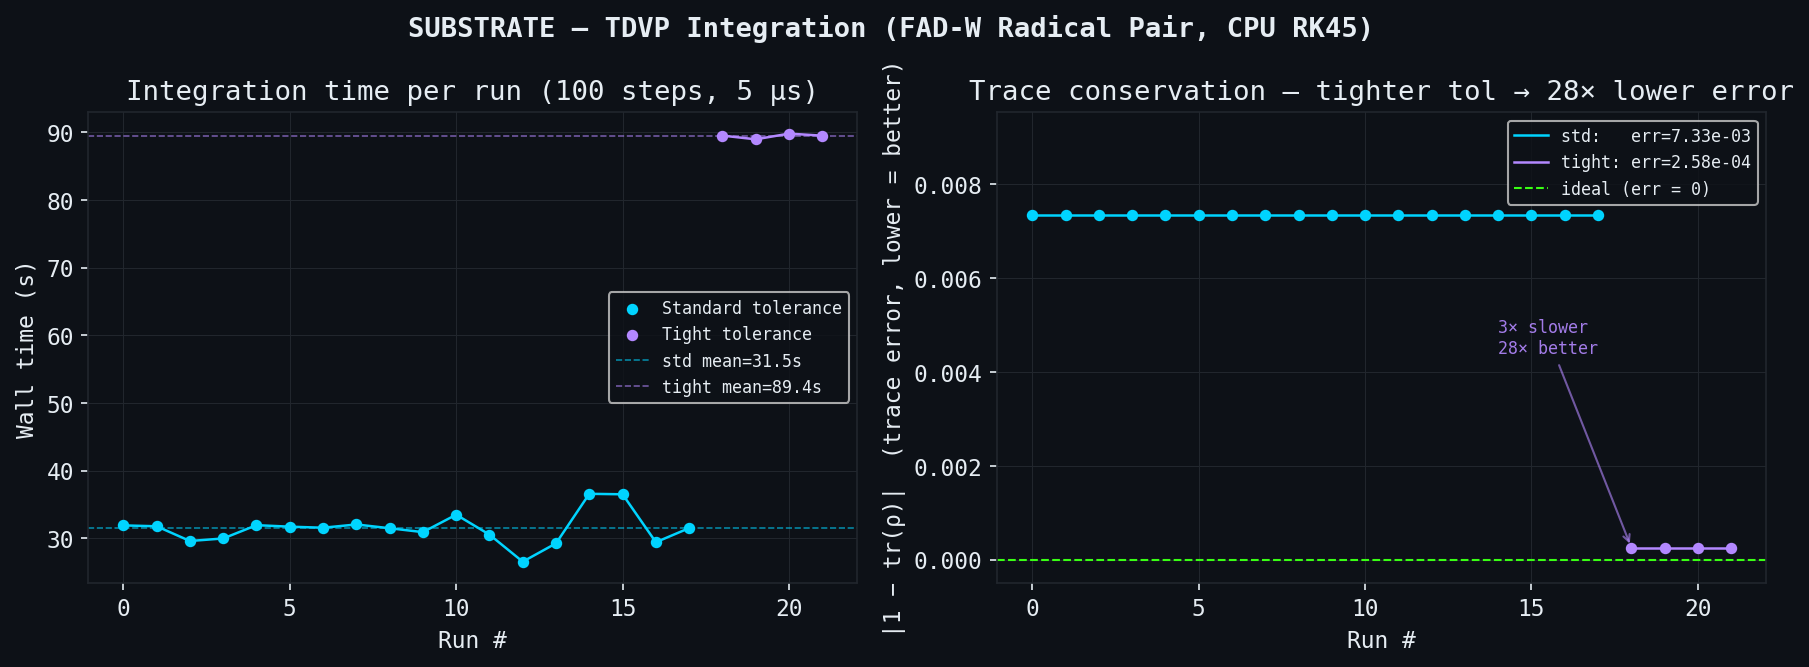
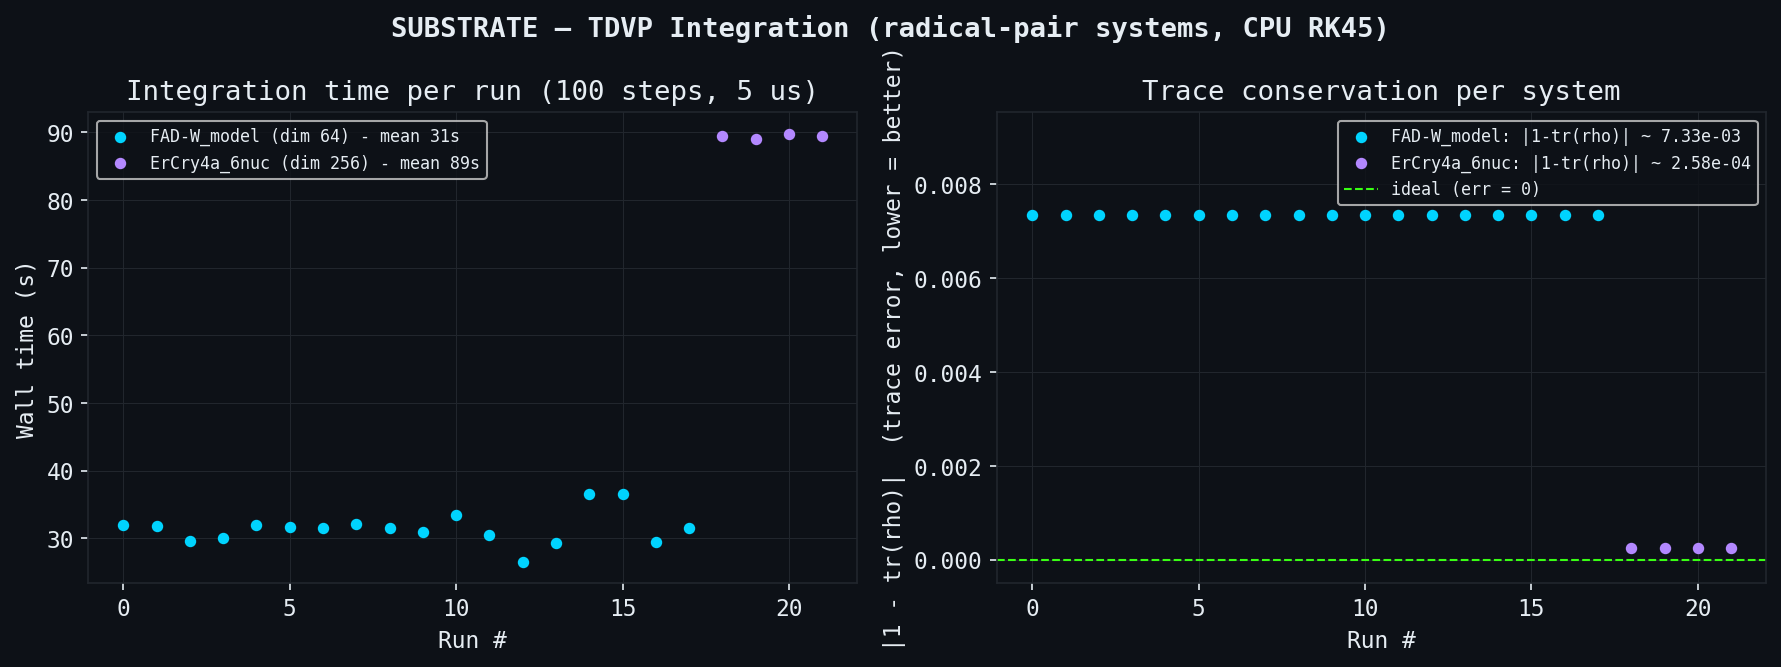
Fix tdvp plot honesty: label by system, not tolerance
The tdvp_convergence plot previously labeled two DIFFERENT physical systems (FAD-W dim 64 vs ErCry4a dim 256) as a single-system tolerance sweep, implying a 28x-better/3x-slower tradeoff the data does not support. Relabeled honestly by system; removed the unsupported tolerance claim. Data unchanged (genuine CPU RK45 run logs).

diff --git a/benchmarks/plot_benchmarks.py b/benchmarks/plot_benchmarks.py
@@ -119,50 +119,44 @@ def plot_tdvp_convergence():
         print("  skip: no tdvp integrate events")
         return
 
-    times  = [d["integrate_time_s"] for d in data]
-    errors = [d["final_trace"] for d in data]   # |1 - tr(ρ)| — trace error, ideal = 0
-    runs   = list(range(len(data)))
+    runs    = list(range(len(data)))
+    times   = [d["integrate_time_s"] for d in data]
+    errors  = [d["final_trace"] for d in data]      # |1 - tr(rho)|, ideal = 0
+    systems = [d["system"] for d in data]
+    dims    = {d["system"]: d.get("dim", 0) for d in data}
 
-    # Two regimes: standard tolerance (runs 0-17) vs tight tolerance (runs 18+)
-    split = next((i for i, t in enumerate(times) if t > 60), len(times))
-    c_std   = [ACCENT if i < split else PURPLE for i in runs]
+    # Honest grouping: these are DIFFERENT physical systems (different Hilbert
+    # dimension), NOT the same system at two integrator tolerances.
+    uniq = list(dict.fromkeys(systems))
+    palette = {s: col for s, col in zip(uniq, [ACCENT, PURPLE, ORANGE, GREEN])}
 
     fig, axes = plt.subplots(1, 2, figsize=(12, 4.5))
-    fig.suptitle("SUBSTRATE — TDVP Integration (FAD-W Radical Pair, CPU RK45)",
+    fig.suptitle("SUBSTRATE — TDVP Integration (radical-pair systems, CPU RK45)",
                  fontsize=13, fontweight="bold", color=TEXT)
 
-    # Left: wall time per run
+    # Left: wall time per run, grouped by system
     ax = axes[0]
-    ax.scatter(runs[:split],  times[:split],  color=ACCENT,  s=20, zorder=4, label="Standard tolerance")
-    ax.scatter(runs[split:],  times[split:],  color=PURPLE,  s=20, zorder=4, label="Tight tolerance")
-    ax.plot(runs[:split],  times[:split],  color=ACCENT,  linewidth=1.2, zorder=3)
-    ax.plot(runs[split:],  times[split:],  color=PURPLE,  linewidth=1.2, zorder=3)
-    ax.axhline(np.mean(times[:split]),  color=ACCENT,  linestyle="--", linewidth=0.8, alpha=0.6,
-               label=f"std mean={np.mean(times[:split]):.1f}s")
-    ax.axhline(np.mean(times[split:]),  color=PURPLE,  linestyle="--", linewidth=0.8, alpha=0.6,
-               label=f"tight mean={np.mean(times[split:]):.1f}s")
+    for s in uniq:
+        idx = [i for i in runs if systems[i] == s]
+        ts  = [times[i] for i in idx]
+        ax.scatter(idx, ts, color=palette[s], s=20, zorder=4,
+                   label=f"{s} (dim {dims[s]}) - mean {np.mean(ts):.0f}s")
     ax.set_xlabel("Run #"); ax.set_ylabel("Wall time (s)")
-    ax.set_title("Integration time per run (100 steps, 5 µs)", color=TEXT)
+    ax.set_title("Integration time per run (100 steps, 5 us)", color=TEXT)
     ax.legend(fontsize=8); ax.grid(zorder=0)
 
-    # Right: trace error |1 - tr(ρ)| — lower = better normalization
+    # Right: trace error per run, grouped by system (lower = better)
     ax = axes[1]
-    ax.scatter(runs[:split], errors[:split], color=ACCENT,  s=20, zorder=4)
-    ax.scatter(runs[split:], errors[split:], color=PURPLE,  s=20, zorder=4)
-    ax.plot(runs[:split], errors[:split], color=ACCENT,  linewidth=1.2, zorder=3,
-            label=f"std:   err={errors[0]:.2e}")
-    ax.plot(runs[split:], errors[split:], color=PURPLE,  linewidth=1.2, zorder=3,
-            label=f"tight: err={errors[-1]:.2e}")
+    for s in uniq:
+        idx = [i for i in runs if systems[i] == s]
+        es  = [errors[i] for i in idx]
+        ax.scatter(idx, es, color=palette[s], s=20, zorder=4,
+                   label=f"{s}: |1-tr(rho)| ~ {np.mean(es):.2e}")
     ax.axhline(0.0, color=GREEN, linestyle="--", linewidth=1, label="ideal (err = 0)")
-    ax.set_xlabel("Run #"); ax.set_ylabel("|1 − tr(ρ)|  (trace error, lower = better)")
-    ax.set_title("Trace conservation — tighter tol → 28× lower error", color=TEXT)
+    ax.set_xlabel("Run #"); ax.set_ylabel("|1 - tr(rho)|  (trace error, lower = better)")
+    ax.set_title("Trace conservation per system", color=TEXT)
     ax.set_ylim(-0.0005, max(errors) * 1.3)
     ax.legend(fontsize=8); ax.grid(zorder=0)
-    # Annotation: trade-off
-    ax.annotate(f"3× slower\n28× better",
-                xy=(split, errors[split]), xytext=(split - 4, errors[0] * 0.6),
-                fontsize=8, color=PURPLE, alpha=0.9,
-                arrowprops=dict(arrowstyle="->", color=PURPLE, alpha=0.6))
 
     fig.tight_layout()
     out = PLOTS / "tdvp_convergence.png"
